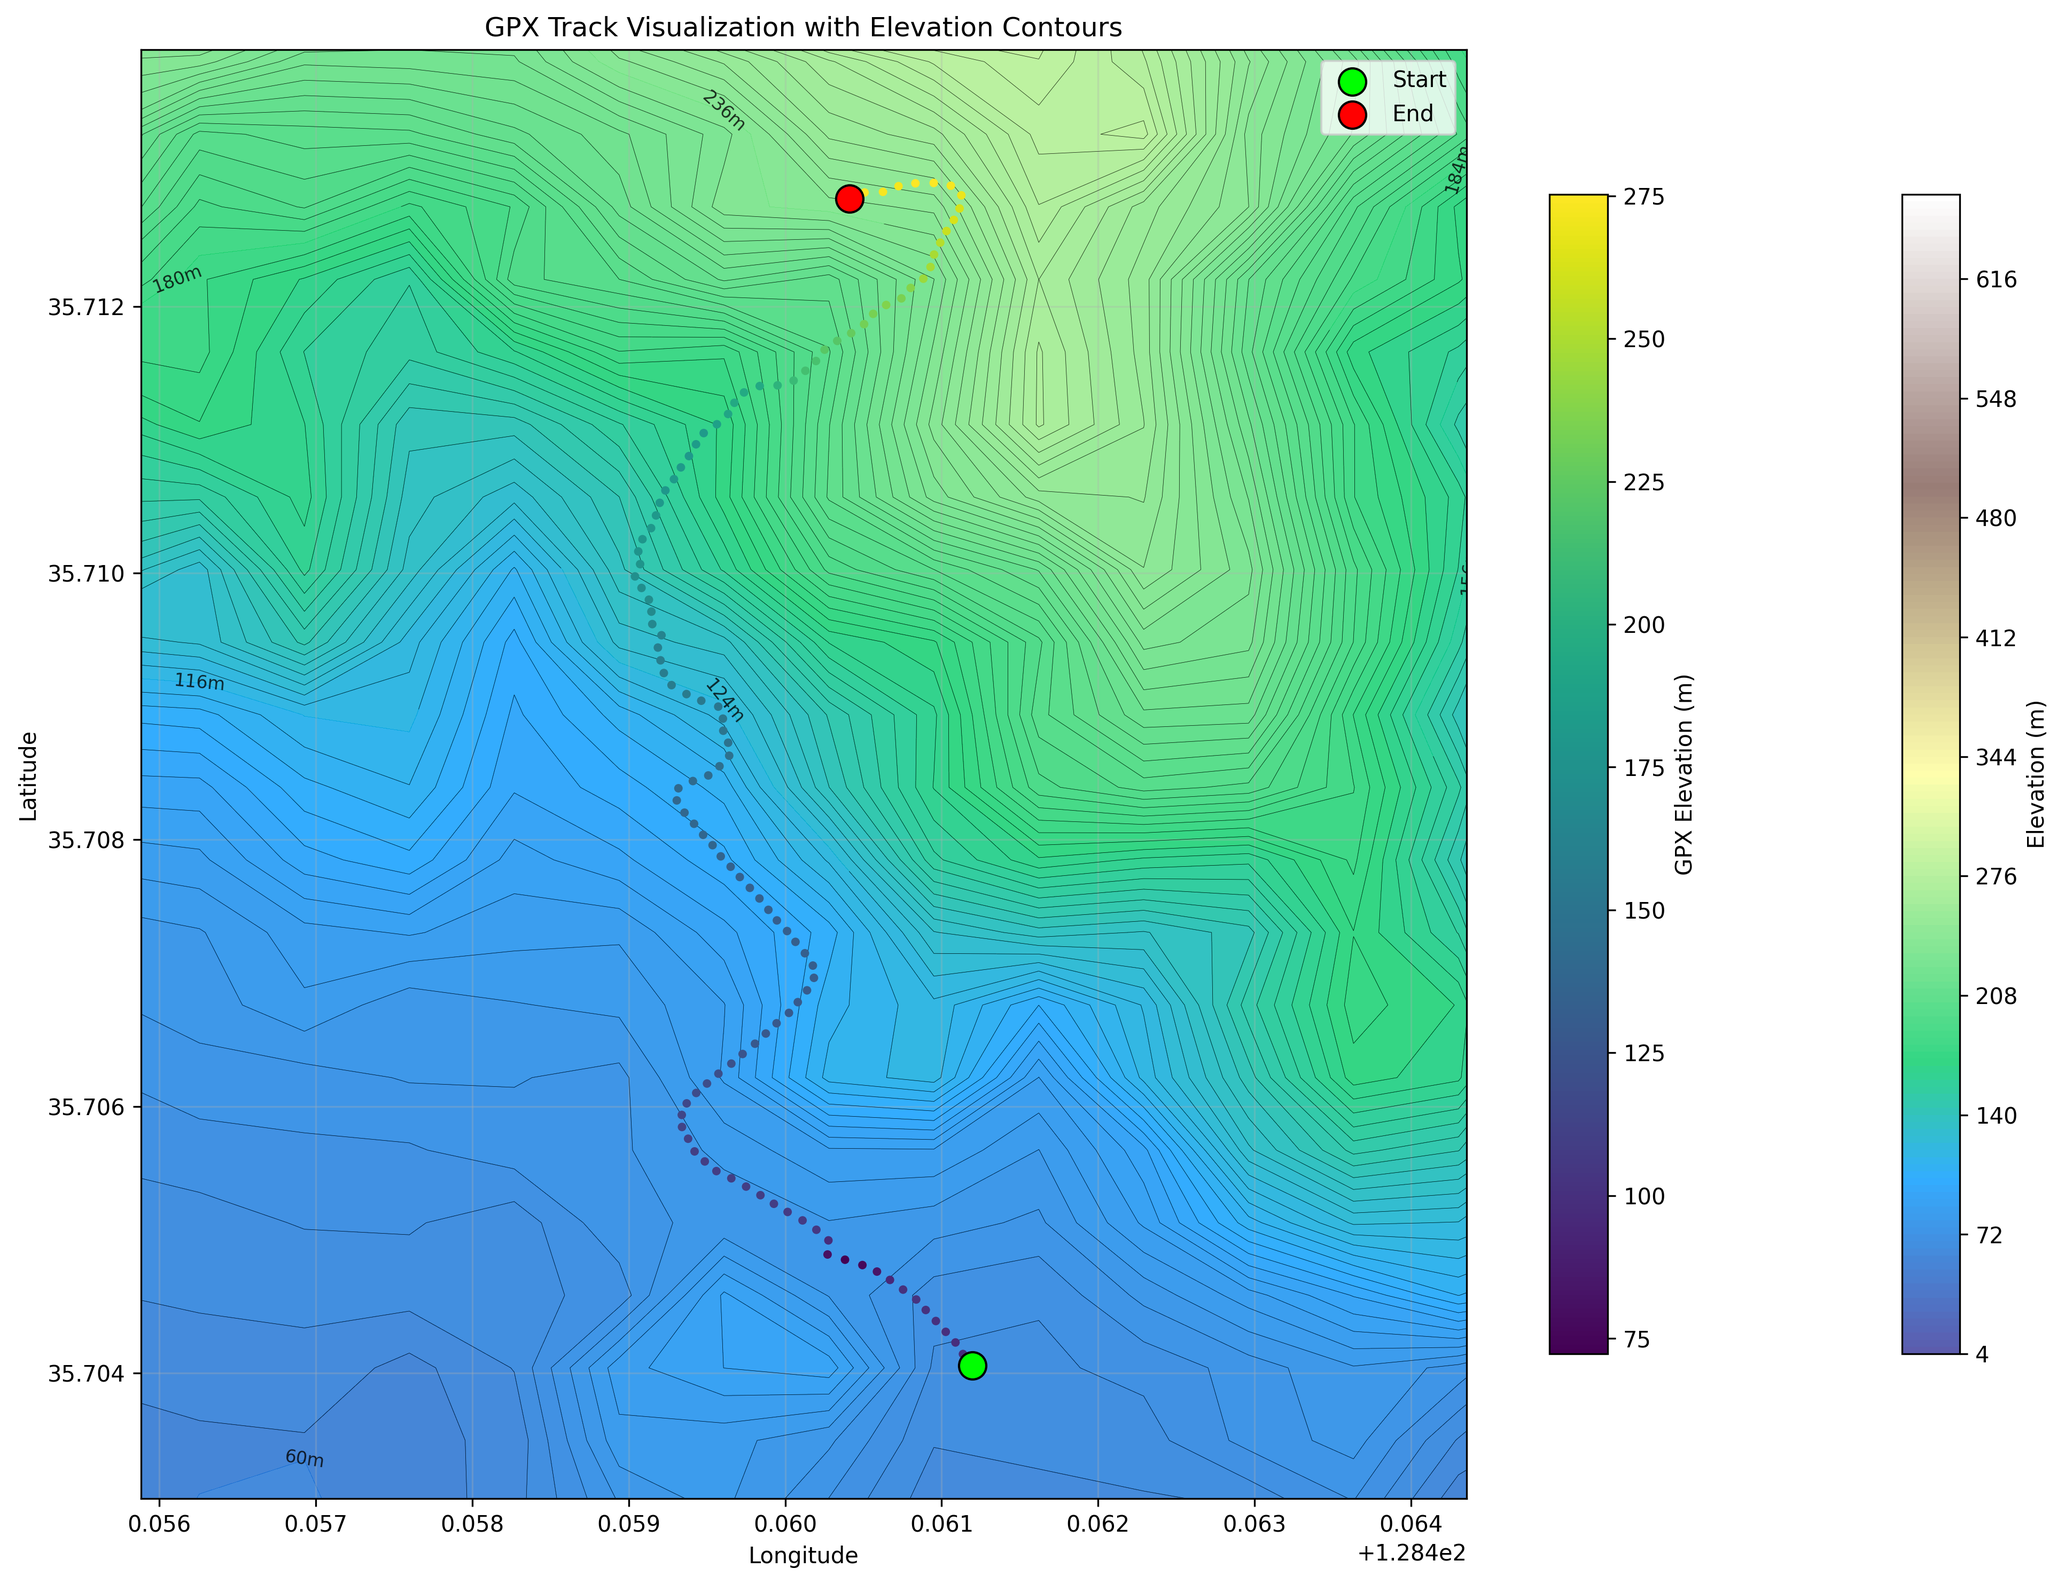
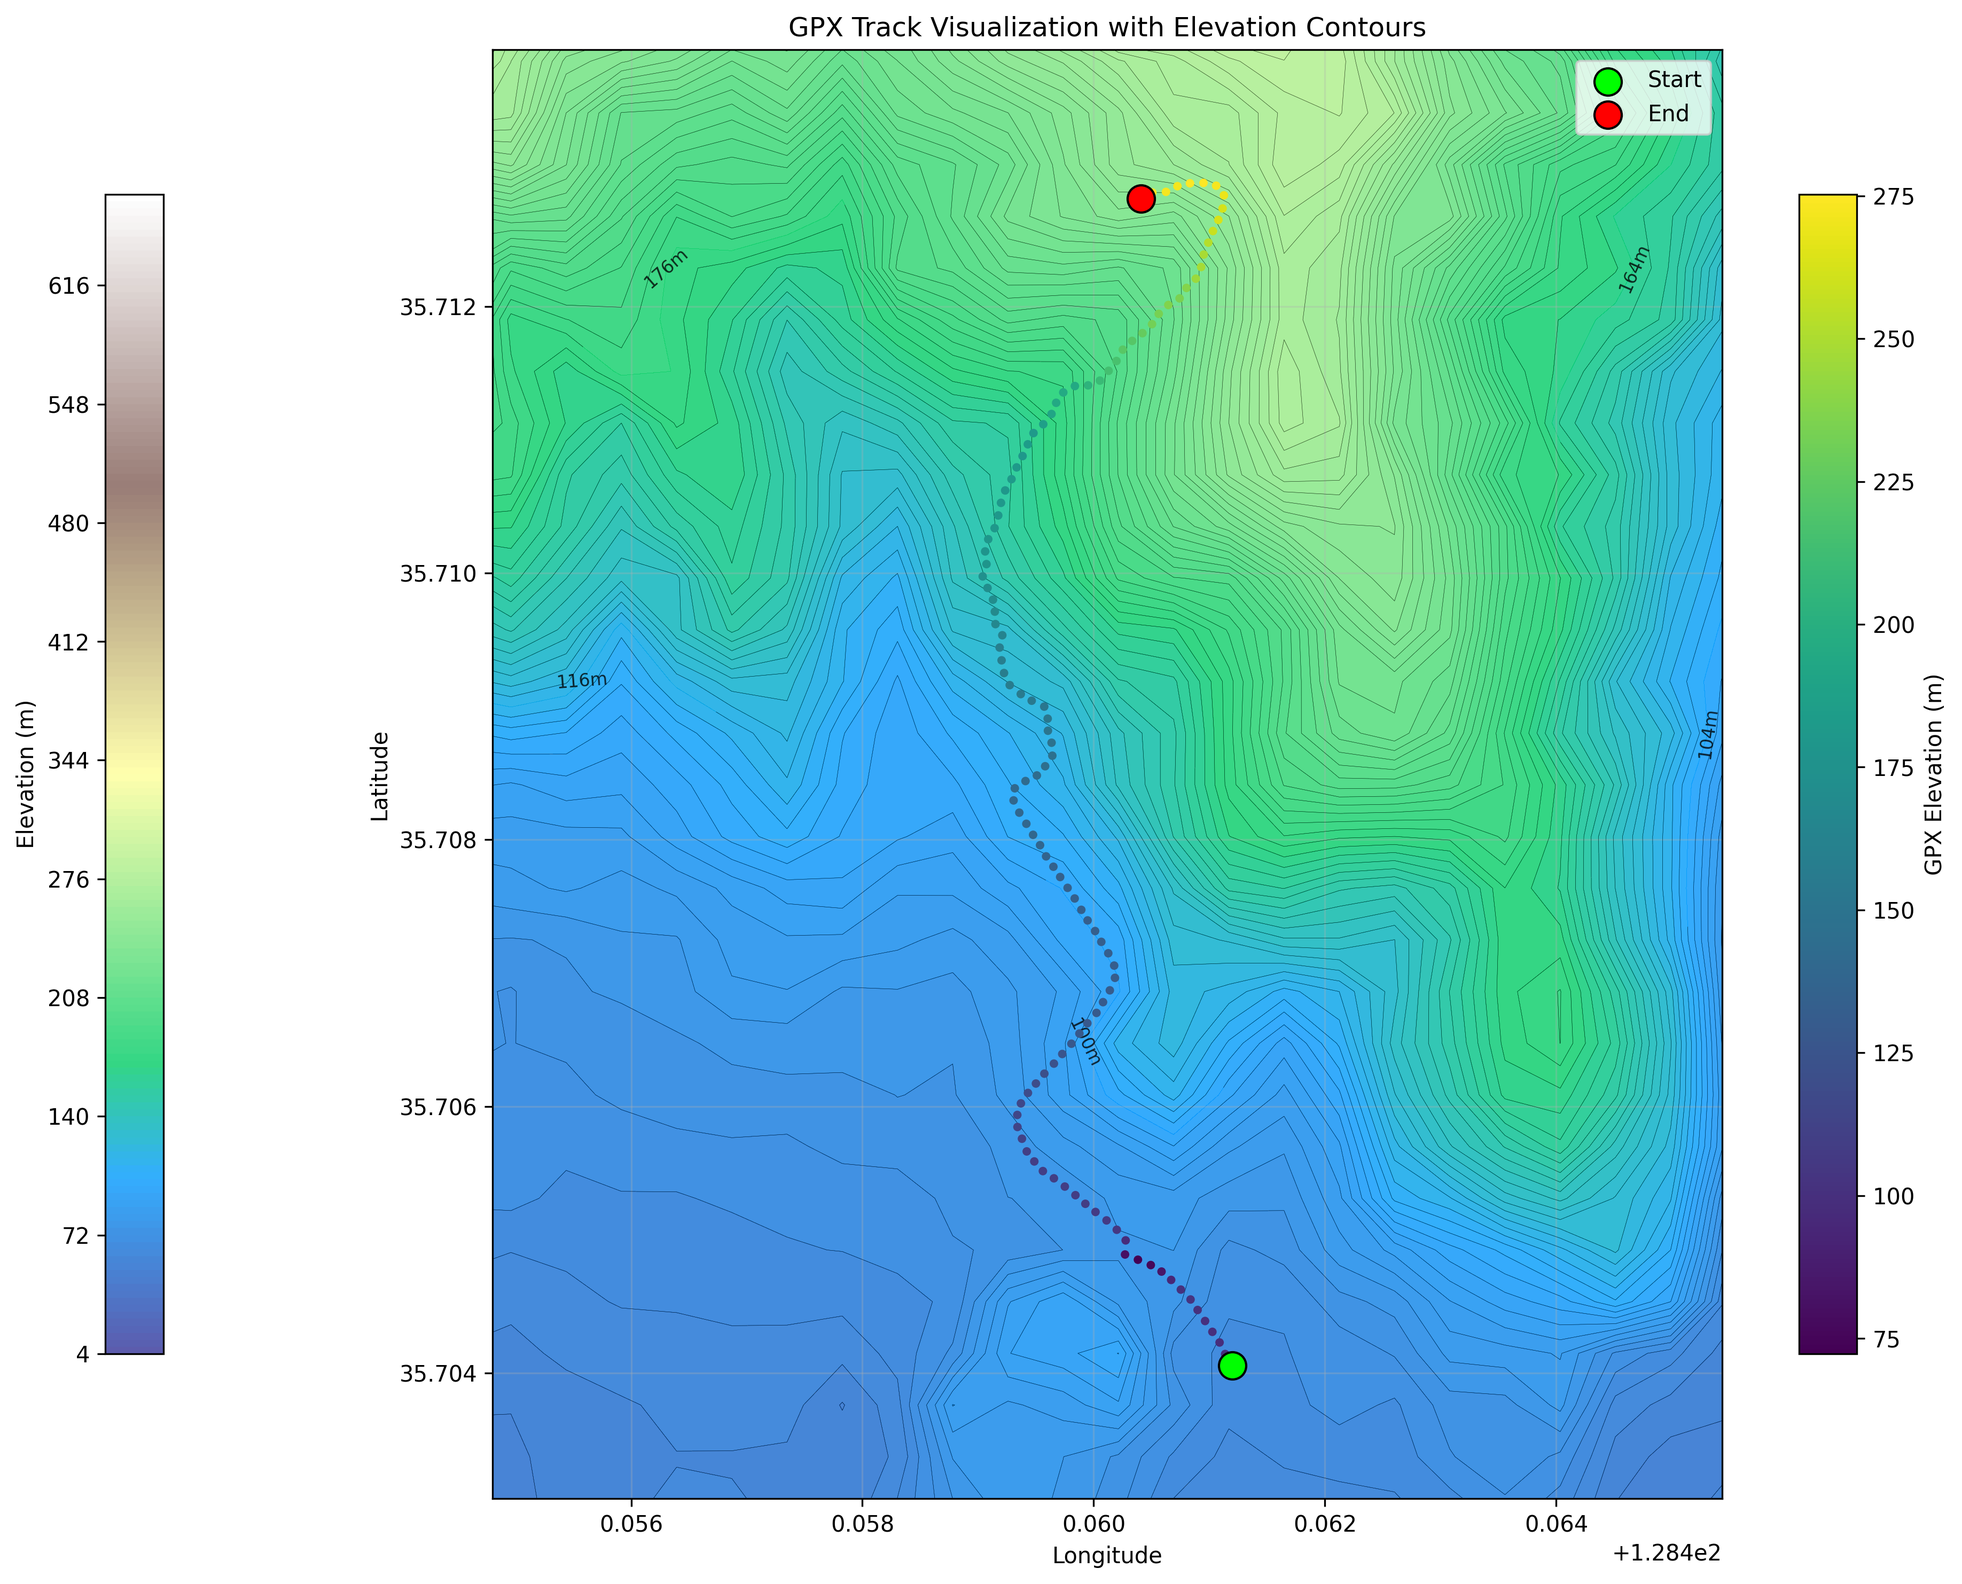
Refactor code structure for improved readability and maintainability

diff --git a/gpx_visualizer.py b/gpx_visualizer.py
@@ -272,26 +272,59 @@ def plot_gpx_with_vectors(gpx_points, title="GPX Track with Direction Vectors", 
     return fig, ax
 
 
+def get_gpx_files():
+    """
+    Get all GPX files in the main directory and gpx_data subdirectory
+    """
+    import os
+    import glob
+    
+    # Get GPX files from main directory
+    main_gpx_files = glob.glob("*.gpx")
+    
+    # Get GPX files from gpx_data directory
+    data_gpx_files = glob.glob("gpx_data/*.gpx")
+    
+    # Sort the data files to ensure consistent order
+    data_gpx_files.sort()
+    
+    # Combine all GPX files: main file first, then sorted data files
+    all_gpx_files = main_gpx_files + data_gpx_files
+    
+    return all_gpx_files
+
+
 def main():
     # Load API keys
     elevation_api_key, maps_api_key = load_api_keys()
     
-    # Specify the GPX file to visualize
-    gpx_file_path = "Oct_8,_2025_7_12_58_AM_Hiking_Ascent.gpx"
+    # Get all GPX files
+    gpx_files = get_gpx_files()
+    print(f"Found {len(gpx_files)} GPX files: {gpx_files}")
     
-    print("Loading GPX data...")
-    gpx_points = parse_gpx_file(gpx_file_path)
-    print(f"Loaded {len(gpx_points)} track points")
-    
-    if not gpx_points:
-        print("No track points found in GPX file")
+    if not gpx_files:
+        print("No GPX files found")
         return
     
-    # Get bounds for the track
-    lats = [p['latitude'] for p in gpx_points]
-    lons = [p['longitude'] for p in gpx_points]
-    center_lat = np.mean(lats)
-    center_lon = np.mean(lons)
+    # Load all GPX data
+    all_gpx_points = []
+    for i, gpx_file in enumerate(gpx_files):
+        print(f"Loading GPX data from {gpx_file}...")
+        gpx_points = parse_gpx_file(gpx_file)
+        print(f"Loaded {len(gpx_points)} track points from {gpx_file}")
+        all_gpx_points.append(gpx_points)
+    
+    # Combine all track points to get bounds for elevation data
+    all_lats = []
+    all_lons = []
+    for gpx_points in all_gpx_points:
+        lats = [p['latitude'] for p in gpx_points]
+        lons = [p['longitude'] for p in gpx_points]
+        all_lats.extend(lats)
+        all_lons.extend(lons)
+    
+    center_lat = np.mean(all_lats)
+    center_lon = np.mean(all_lons)
     
     print("Fetching elevation data...")
     # Use configuration values for size - other parameters are handled within the function
@@ -301,38 +334,128 @@ def main():
     
     print("Creating visualizations...")
     # Plot GPX with contours using the enhanced function from elevation_processor
-    fig1, ax1 = plot_terrain_with_gpx(gpx_points, elevation_grid, LAT, LON, 
+    fig1, ax1 = plot_terrain_with_gpx(all_gpx_points[0], elevation_grid, LAT, LON, 
                                      title="GPX Track Visualization with Elevation Contours")
     
     # Save the first figure
     fig1.savefig('output/gpx_contour_visualization.png', dpi=300, bbox_inches='tight')
     
-    # Plot elevation profile
-    fig2, ax2 = plot_elevation_profile(gpx_points, title="Elevation Profile Along Track")
+    # Plot elevation profile for first track
+    fig2, ax2 = plot_elevation_profile(all_gpx_points[0], title="Elevation Profile Along Track")
     
     # Save the second figure
     fig2.savefig('output/elevation_profile.png', dpi=300, bbox_inches='tight')
     
     # Plot GPX with direction vectors (separate visualization)
-    fig3, ax3 = plot_gpx_with_vectors(gpx_points, title="GPX Track with Direction Vectors")
+    fig3, ax3 = plot_gpx_with_vectors(all_gpx_points[0], title="GPX Track with Direction Vectors")
     
     # Save the third figure
     fig3.savefig('output/gpx_vector_visualization.png', dpi=300, bbox_inches='tight')
     
     # Plot GPX with contours and vectors combined
-    fig4, ax4 = plot_terrain_with_gpx(gpx_points, elevation_grid, LAT, LON, 
+    fig4, ax4 = plot_terrain_with_gpx(all_gpx_points[0], elevation_grid, LAT, LON, 
                                      title="GPX Track Visualization with Elevation Contours and Direction Vectors")
     # Add vectors to this plot too
-    ax4 = add_vectors_to_plot(ax4, gpx_points)
+    ax4 = add_vectors_to_plot(ax4, all_gpx_points[0])
     
     # Save the fourth figure
     fig4.savefig('output/gpx_contour_with_vectors.png', dpi=300, bbox_inches='tight')
+    
+    # NEW: Plot all hikers together with different colors and legend
+    from config import HIKER_COLORS, HIKER_NAMES, SHOW_ELEVATION_BAR, ELEVATION_BAR_POSITION, HIKER_PATH_THICKNESS, X_AXIS_RANGE_FACTOR
+    fig5, ax5 = plt.subplots(figsize=(14, 10))
+    
+    # Create contour plot background
+    if elevation_grid is not None and LAT is not None and LON is not None:
+        # Create contour levels based on elevation range
+        min_elev = np.nanmin(elevation_grid)
+        max_elev = np.nanmax(elevation_grid)
+        
+        # Use CONTOUR_LEVEL_STEP from config for contour intervals
+        step = CONTOUR_LEVEL_STEP
+        contour_levels = np.arange(
+            np.floor(min_elev / step) * step,
+            np.ceil(max_elev / step) * step + step / 2.0,
+            step
+        )
+        
+        # Plot filled contours for better visualization
+        contourf = ax5.contourf(LON, LAT, elevation_grid, levels=contour_levels, cmap='terrain', alpha=CONTOUR_ALPHA)
+        
+        # Add colorbar based on configuration
+        if SHOW_ELEVATION_BAR:
+            if ELEVATION_BAR_POSITION == 'left':
+                cbar = plt.colorbar(contourf, ax=ax5, label='Elevation (m)', shrink=0.8, pad=0.15, location='left')
+            else:
+                # Default to right if not specified as left
+                cbar = plt.colorbar(contourf, ax=ax5, label='Elevation (m)', shrink=0.8)
+        
+        # Plot contour lines
+        contour = ax5.contour(LON, LAT, elevation_grid, levels=contour_levels, colors='black', alpha=CONTOUR_ALPHA, linewidths=CONTOUR_LINEWIDTH)
+        ax5.clabel(contour, inline=True, fontsize=8, fmt='%.0fm')
+    
+    # Plot each hiker's track with different colors
+    for i, gpx_points in enumerate(all_gpx_points):
+        lats = [p['latitude'] for p in gpx_points]
+        lons = [p['longitude'] for p in gpx_points]
+        
+        # Get color for this hiker (cycling through available colors if more hikers than colors)
+        color_idx = i % len(HIKER_COLORS)
+        hiker_color = HIKER_COLORS[color_idx]
+        hiker_name = HIKER_NAMES[i] if i < len(HIKER_NAMES) else f'Hiker {i+1}'
+        
+        # Plot the hiker's track with configurable thickness
+        ax5.plot(lons, lats, color=hiker_color, linewidth=HIKER_PATH_THICKNESS, label=hiker_name, zorder=3)
+        
+        # Plot start and end points
+        ax5.scatter(lons[0], lats[0], color=hiker_color, s=100, zorder=6, 
+                   label=f'{hiker_name} Start', edgecolors='black', marker='o')
+        ax5.scatter(lons[-1], lats[-1], color=hiker_color, s=100, zorder=6, 
+                   label=f'{hiker_name} End', edgecolors='black', marker='s')
+        
+        # Add vectors for each hiker
+        from config import VECTOR_SCALE_FACTOR
+        ax5 = add_vectors_to_plot(ax5, gpx_points, scale_factor=VECTOR_SCALE_FACTOR*1000)
+    
+    # Calculate axis limits to magnify the view on all GPX paths
+    lat_min, lat_max = min(all_lats), max(all_lats)
+    lon_min, lon_max = min(all_lons), max(all_lons)
+    
+    # Add buffer around the path
+    lat_center = (lat_min + lat_max) / 2
+    lon_center = (lon_min + lon_max) / 2
+    
+    # Import required config variables
+    from config import ZOOM_FACTOR_X, ZOOM_FACTOR_Y, AXIS_BUFFER, X_AXIS_RANGE_FACTOR
+    
+    # Use separate zoom factors for x and y axes
+    lat_range = (lat_max - lat_min) * ZOOM_FACTOR_Y
+    lon_range = (lon_max - lon_min) * ZOOM_FACTOR_X
+    
+    # Apply X-axis range factor configuration
+    lon_range = lon_range * X_AXIS_RANGE_FACTOR
+    
+    # Set axis limits to create a magnified view
+    ax5.set_xlim(lon_center - lon_range/2 - AXIS_BUFFER, lon_center + lon_range/2 + AXIS_BUFFER)
+    ax5.set_ylim(lat_center - lat_range/2 - AXIS_BUFFER, lat_center + lat_range/2 + AXIS_BUFFER)
+    
+    ax5.set_title("Multi-Hiker Visualization with Elevation Contours")
+    ax5.set_xlabel('Longitude')
+    ax5.set_ylabel('Latitude')
+    ax5.legend(bbox_to_anchor=(1.05, 1), loc='upper left')  # Place legend outside plot
+    ax5.grid(True, alpha=0.3)
+    
+    plt.tight_layout()
+    
+    # Save the fifth figure
+    fig5.savefig('output/multi_hiker_visualization.png', dpi=300, bbox_inches='tight')
     
     print("Visualizations saved to output/ directory:")
     print("- gpx_contour_visualization.png")
     print("- elevation_profile.png")
     print("- gpx_vector_visualization.png")
     print("- gpx_contour_with_vectors.png")
+    print("- multi_hiker_visualization.png")
 
 
 if __name__ == "__main__":

diff --git a/elevation_processor.py b/elevation_processor.py
@@ -192,7 +192,9 @@ def plot_terrain_with_gpx(gpx_points, elevation_grid, LAT=None, LON=None, title=
     """
     Plot GPX track overlaid on elevation contours using techniques from the referenced repository
     """
-    from config import ZOOM_FACTOR_X, ZOOM_FACTOR_Y, AXIS_BUFFER, CONTOUR_LEVEL_STEP, CONTOUR_ALPHA, CONTOUR_LINEWIDTH  # Import config at function level to avoid circular imports
+    from config import (ZOOM_FACTOR_X, ZOOM_FACTOR_Y, AXIS_BUFFER, CONTOUR_LEVEL_STEP, 
+                       CONTOUR_ALPHA, CONTOUR_LINEWIDTH, SHOW_ELEVATION_BAR, 
+                       ELEVATION_BAR_POSITION, HIKER_PATH_THICKNESS, X_AXIS_RANGE_FACTOR)  # Import config at function level to avoid circular imports
     
     fig, ax = plt.subplots(figsize=(14, 10))
     
@@ -211,7 +213,17 @@ def plot_terrain_with_gpx(gpx_points, elevation_grid, LAT=None, LON=None, title=
         
         # Plot filled contours for better visualization
         contourf = ax.contourf(LON, LAT, elevation_grid, levels=contour_levels, cmap='terrain', alpha=CONTOUR_ALPHA)
-        cbar = plt.colorbar(contourf, ax=ax, label='Elevation (m)', shrink=0.8)
+        
+        # Add colorbar based on configuration
+        if SHOW_ELEVATION_BAR:
+            if ELEVATION_BAR_POSITION == 'left':
+                cbar = plt.colorbar(contourf, ax=ax, label='Elevation (m)', shrink=0.8, pad=0.15, location='left')
+            else:
+                # Default to right if not specified as left
+                cbar = plt.colorbar(contourf, ax=ax, label='Elevation (m)', shrink=0.8)
+        else:
+            # If not showing elevation bar, we still need to manage the layout appropriately
+            pass
         
         # Plot contour lines
         contour = ax.contour(LON, LAT, elevation_grid, levels=contour_levels, colors='black', alpha=CONTOUR_ALPHA, linewidths=CONTOUR_LINEWIDTH)
@@ -219,7 +231,11 @@ def plot_terrain_with_gpx(gpx_points, elevation_grid, LAT=None, LON=None, title=
     else:
         # If no coordinate grids, just plot a basic elevation map
         im = ax.imshow(elevation_grid, origin='lower', cmap='terrain', alpha=0.7)
-        plt.colorbar(im, ax=ax, label='Elevation (m)')
+        if SHOW_ELEVATION_BAR:
+            if ELEVATION_BAR_POSITION == 'left':
+                plt.colorbar(im, ax=ax, label='Elevation (m)', location='left')
+            else:
+                plt.colorbar(im, ax=ax, label='Elevation (m)')
     
     # Extract GPX coordinates for plotting
     lats = np.array([p['latitude'] for p in gpx_points])
@@ -229,9 +245,10 @@ def plot_terrain_with_gpx(gpx_points, elevation_grid, LAT=None, LON=None, title=
     if all(p['elevation'] is not None for p in gpx_points):
         elevations = [p['elevation'] for p in gpx_points]
         scatter = ax.scatter(lons, lats, c=elevations, cmap='viridis', s=8, zorder=5)
-        plt.colorbar(scatter, ax=ax, label='GPX Elevation (m)', shrink=0.8)
+        if SHOW_ELEVATION_BAR:
+            plt.colorbar(scatter, ax=ax, label='GPX Elevation (m)', shrink=0.8)
     else:
-        ax.plot(lons, lats, 'r-', linewidth=2, zorder=5)
+        ax.plot(lons, lats, 'r-', linewidth=HIKER_PATH_THICKNESS, zorder=5)  # Use configured thickness
     
     # Highlight start and end points
     ax.scatter(lons[0], lats[0], color='lime', s=150, zorder=6, label='Start', edgecolors='black', linewidth=1)  # Start point
@@ -248,6 +265,9 @@ def plot_terrain_with_gpx(gpx_points, elevation_grid, LAT=None, LON=None, title=
     # Use separate zoom factors for x and y axes
     lat_range = (lat_max - lat_min) * ZOOM_FACTOR_Y
     lon_range = (lon_max - lon_min) * ZOOM_FACTOR_X
+    
+    # Apply X-axis range factor configuration
+    lon_range = lon_range * X_AXIS_RANGE_FACTOR
     
     # Set axis limits to create a magnified view
     ax.set_xlim(lon_center - lon_range/2 - AXIS_BUFFER, lon_center + lon_range/2 + AXIS_BUFFER)

diff --git a/config.py b/config.py
@@ -3,18 +3,18 @@
 
 # View settings
 ZOOM_FACTOR = 1  # Reduce the axis range to magnify the path (0.25 = 1/4 of original view)
-ZOOM_FACTOR_X = 3  # Separate zoom factor for x-axis (longitude)
+ZOOM_FACTOR_X = 4  # Separate zoom factor for x-axis (longitude)
 ZOOM_FACTOR_Y = 1  # Separate zoom factor for y-axis (latitude)
 AXIS_BUFFER = 0.001  # Buffer around the path in decimal degrees
 
 # Elevation data settings
-GRID_SIZE = 100  # Size of elevation grid (GRID_SIZE x GRID_SIZE)
+GRID_SIZE = 140  # Size of elevation grid (GRID_SIZE x GRID_SIZE)
 HALF_SIZE_KM = 3.0  # Half size of area to fetch elevation data (in km)
 
 # Contour visualization settings
 CONTOUR_LEVEL_STEP = 4.0  # Elevation step between contour lines (in meters)
 CONTOUR_ALPHA = 0.8  # Transparency of contour lines
-CONTOUR_LINEWIDTH = 0.2  # Width of contour lines
+CONTOUR_LINEWIDTH = 0.15  # Width of contour lines
 
 # Caching settings
 ELEVATION_CACHE_ENABLED = True  # Whether to cache elevation data
@@ -22,8 +22,18 @@ ELEVATION_CACHE_DIR = "cache"  # Directory for storing cached elevation data
 
 # Vector visualization settings
 VECTOR_SAMPLING_INTERVAL = 3  # Plot vector every N points
-VECTOR_SCALE_FACTOR = 5  # Scale factor for vector lengths to make them visible
-VECTOR_WIDTH = 0.003  # Width of the arrows
+VECTOR_SCALE_FACTOR = 0.005  # Scale factor for vector lengths to make them visible
+VECTOR_WIDTH = 0.001  # Width of the arrows
 VECTOR_COLOR = 'black'  # Color of the vectors
-VECTOR_ALPHA = 0.7  # Transparency of the vectors
+VECTOR_ALPHA = 0.5  # Transparency of the vectors
 MAX_VECTOR_DISPLAY = 20  # Maximum number of vectors to display to avoid overcrowding
+
+# Multiple hikers visualization settings
+HIKER_COLORS = ['yellow', 'red','blue',]  # Colors for different hikers
+HIKER_NAMES = ['M', 'H','Z']  # Names for legend
+
+# Visualization enhancement settings
+SHOW_ELEVATION_BAR = True  # Whether to show the elevation color bar
+ELEVATION_BAR_POSITION = 'left'  # Position of elevation color bar ('left', 'right', 'bottom', 'top')
+HIKER_PATH_THICKNESS = 2  # Thickness of hiker path lines
+X_AXIS_RANGE_FACTOR = 1  # Factor to control x-axis range (0.3 means 30% of original, with 35% cut from each side)
